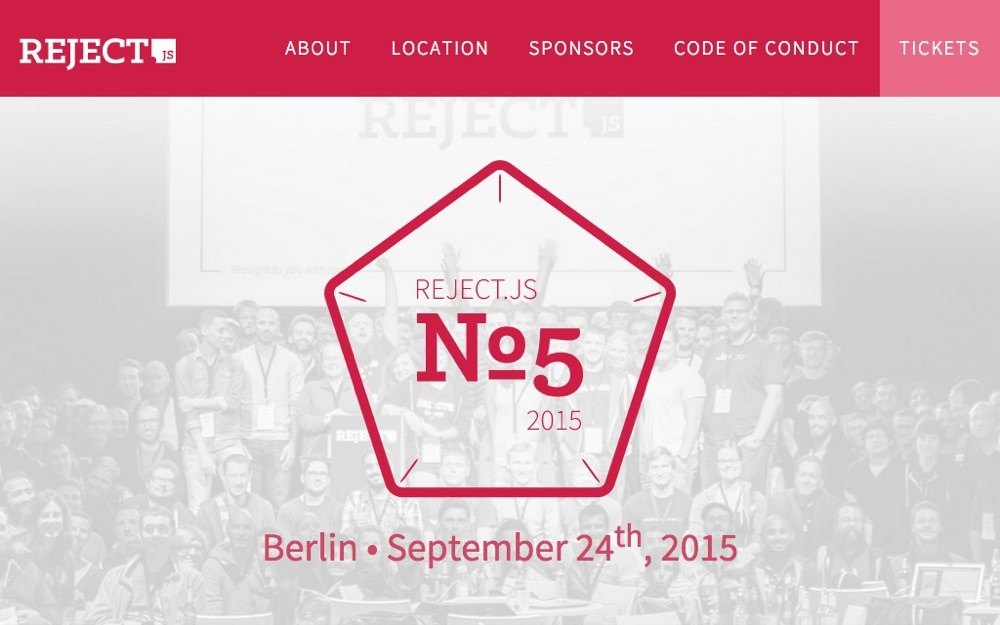
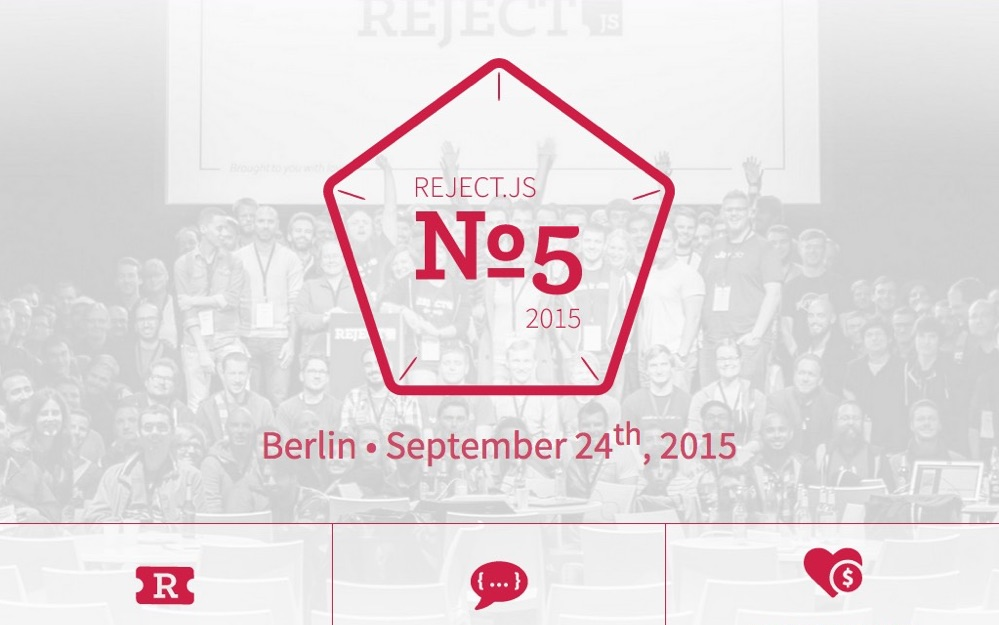
Finish project post for Reject.JS

diff --git a/_posts/2015-05-03-rejectjs.md b/_posts/2015-05-03-rejectjs.md
@@ -1,7 +1,7 @@
 ---
 layout: post
 lead: Reject.JS
-title:  A JavaScript Community Conference
+title:  A JavaScript Conference
 image: reject_01.jpg
 date:   2015-05-03, 23:00
 categories: portfolio
@@ -9,12 +9,40 @@ project_url: http://rejectjs.org
 tags: Design Development
 ---
 
-
-
 Reject.JS is an annual, community-driven full day JavaScript conference happening in Berlin. In 2015 the event celebrates it's fifth birthday.
 
 Reject.JS was born in 2010 out of the monthly [Berlin.JS](http://berlinjs.org) meetups, and aims to give a chance to experience the JavaScript community to rejected speakers of JSConf.eu, people who didn't get a ticket and everyone else who's interested. Nowadays, Reject.JS is a full-blown conference itself, while still staying true to its roots.
 
 I am a team member since 2011. Since then I take care of the conference website design & implementation. From the very beginning I decided to apply a responive webdesign approach and sticked to it.
 
-[2012](http://2012.rejectjs.org/), [2013](http://2013.rejectjs.org/), [2014](http://2014.rejectjs.org/), [2015](http://rejectjs.org)
+### Evolution of the Reject.JS website
+
+Over the years I've done several website designs for the conference. Each year I tried something new or used freshly learned techniques while keeping the whole thing relatively simple.
+
+<figure class="post__figure">
+  <img class="post__figure-image" src="/img/rejectjs/2012_reject.jpg">
+  <figcaption class="post__figure-caption">
+    While the first Reject.JS was announced on the website of <a href="http://berlinjs.org" title="Berlin JavaScript Usergroup">Berlin.JS</a> the 2012 edition got its very own site. You can still <a href="http://2012.rejectjs.org" title="Reject.JS 2012">see it live</a>.
+  </figcaption>
+</figure>
+
+<figure class="post__figure">
+  <img class="post__figure-image" src="/img/rejectjs/2013_reject.jpg">
+  <figcaption class="post__figure-caption">
+    In <a href="http://2013.rejectjs.org" title="Reject.JS 2013">2013</a> the conference got a freshly designed page with a new logo and main color. The new design is much clearer and more straightforward than before.
+  </figcaption>
+</figure>
+
+<figure class="post__figure">
+  <img class="post__figure-image" src="/img/rejectjs/2014_reject.jpg">
+  <figcaption class="post__figure-caption">
+    Layout is wider and sports more whitespace paired with components that are more sophisticated than those before. The blue of previous versions is now completely gone. The <a href="http://2014.rejectjs.org" title="Reject.JS 2014">2014 Reject.JS</a> settled on that striking pink color and its variations.
+  </figcaption>
+</figure>
+
+<figure class="post__figure">
+  <img class="post__figure-image" src="/img/rejectjs/2015_reject.jpg">
+  <figcaption class="post__figure-caption">
+    Besides the beloved pink everything is new again. <a href="http://rejectjs.org" title="Reject.JS 2015">The 2015 version</a> relies heavily on Flexbox for layout and components—which was new for me in this extent. Another novelty is the extensive use of SVG graphics
+  </figcaption>
+</figure>
